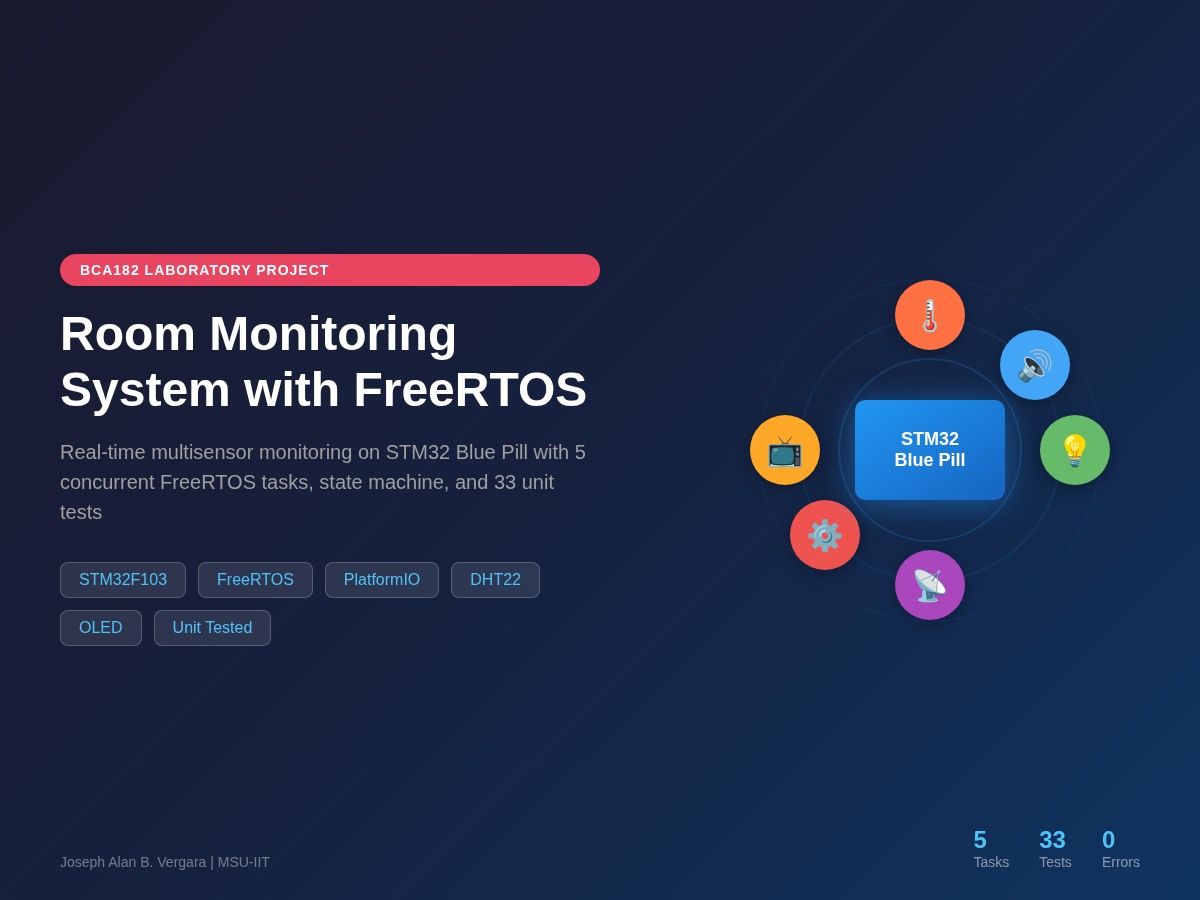
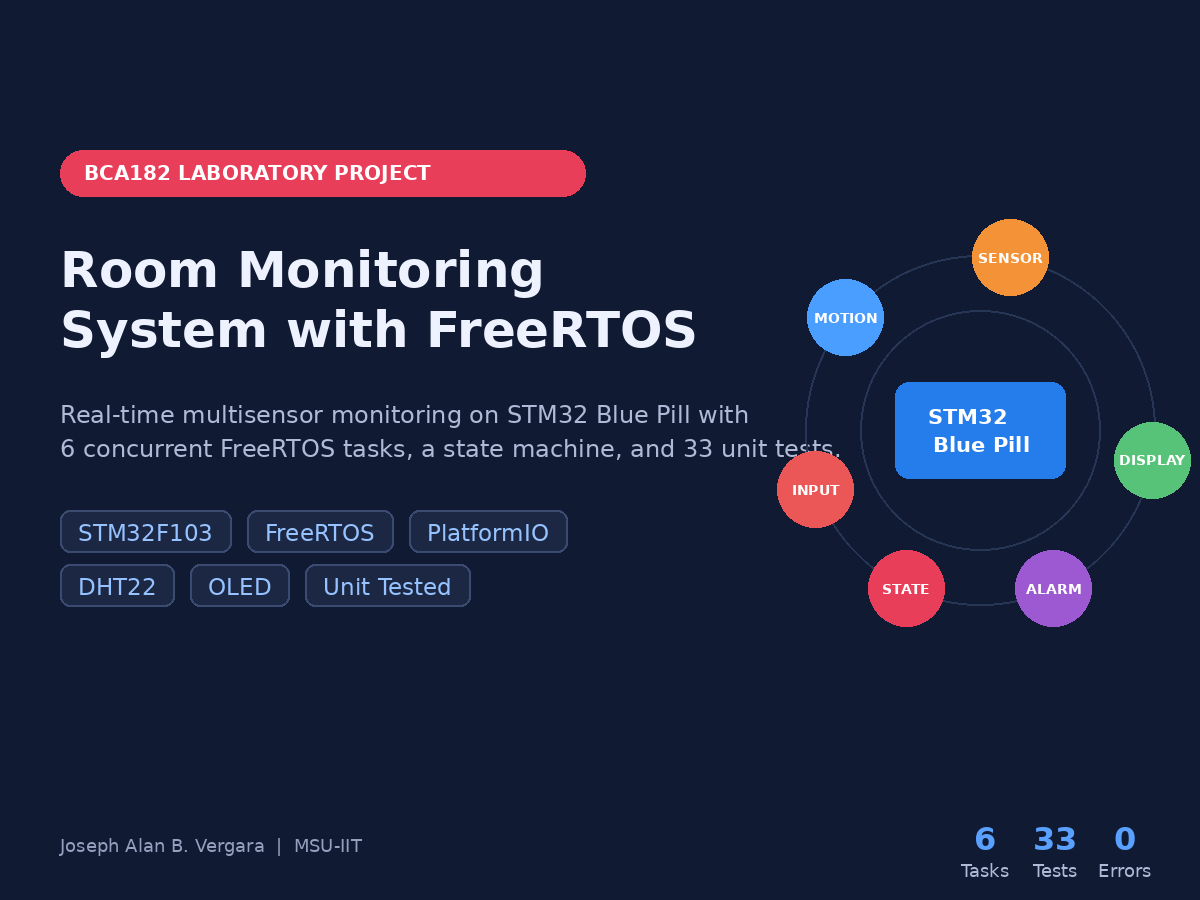
docs: correct cover image task count and diagram reference
The cover banner still advertised five concurrent tasks and the README called it
the rendered architecture diagram. Regenerate the banner for the six-task design
and describe it accurately.

diff --git a/README.md b/README.md
@@ -83,7 +83,9 @@ This project demonstrates the learning outcomes of BCA182 Laboratory Activity 1:
  └────────────┘
 ```
 
-The full rendered diagram is available as `docs/cover-image.png`.
+The diagram above is the task/deployment view. A rendered project cover image is
+available at `docs/cover-image.png`; a rendered state-machine figure and a
+task-communication figure are part of the laboratory report and this README.
 
 ---
 
